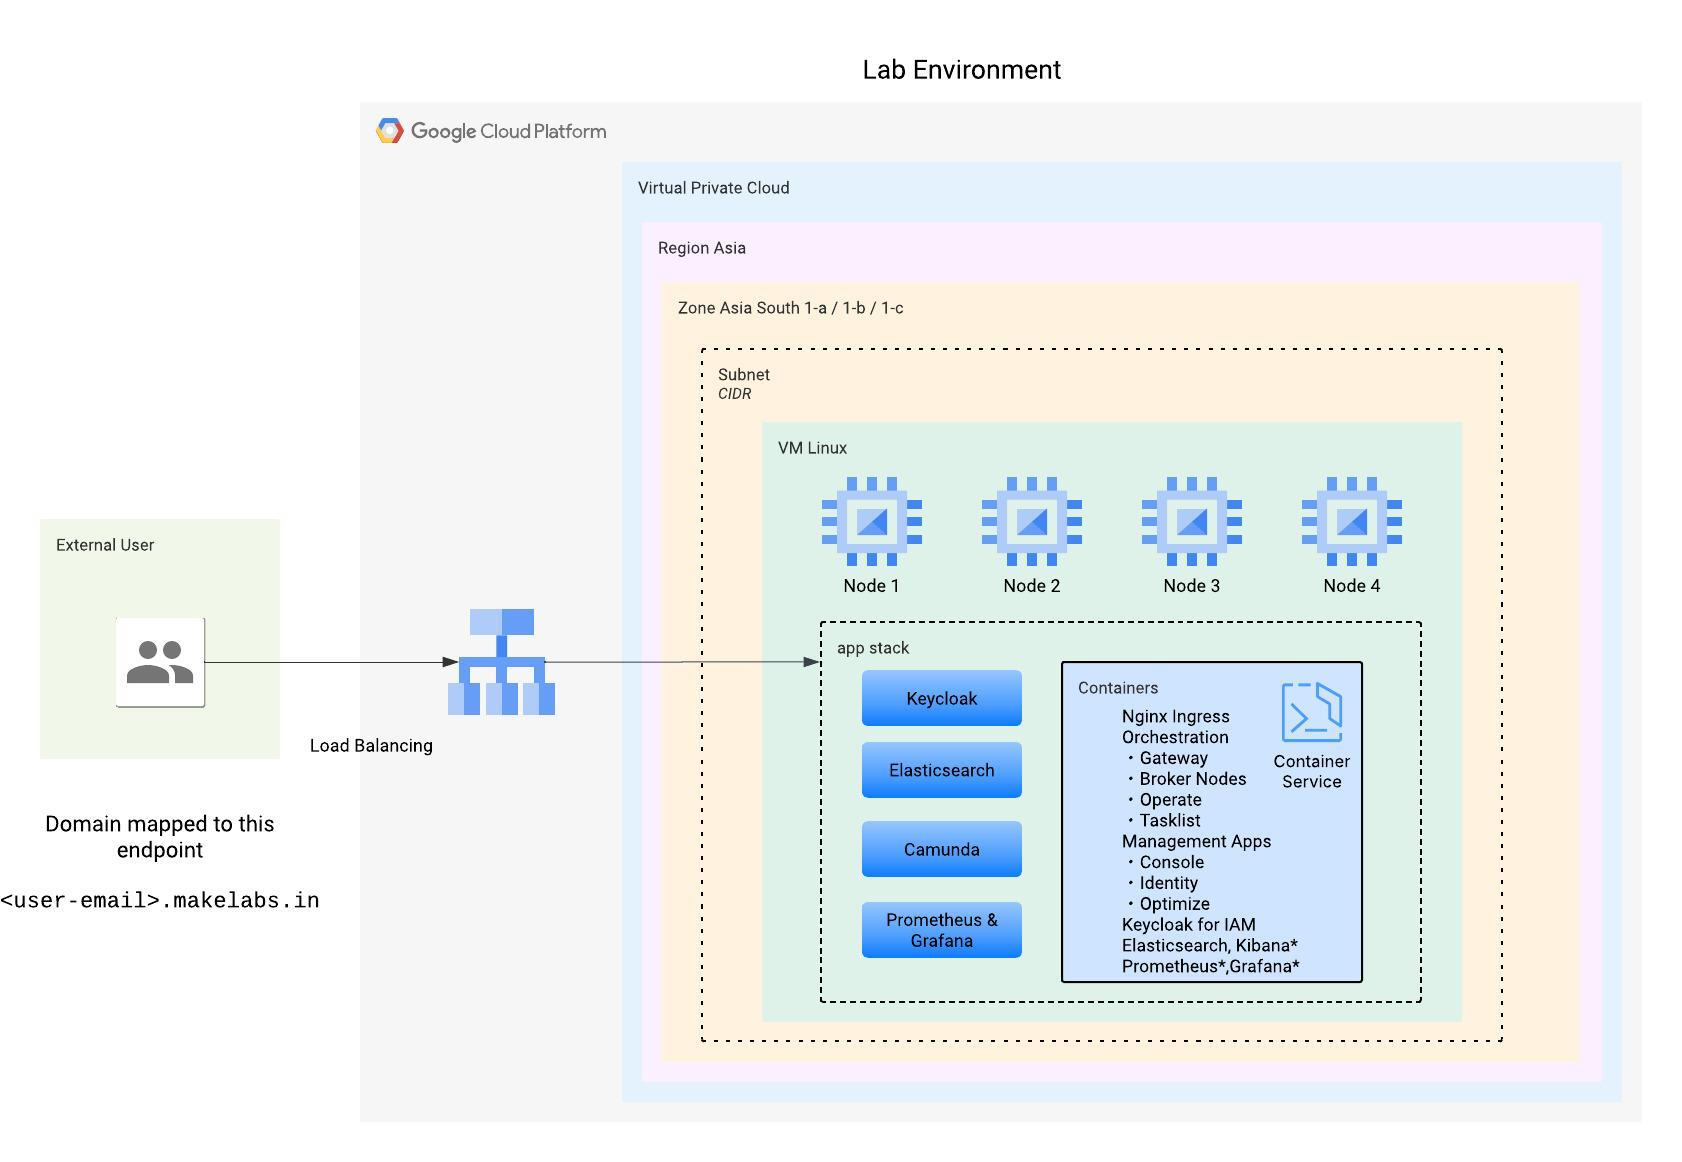
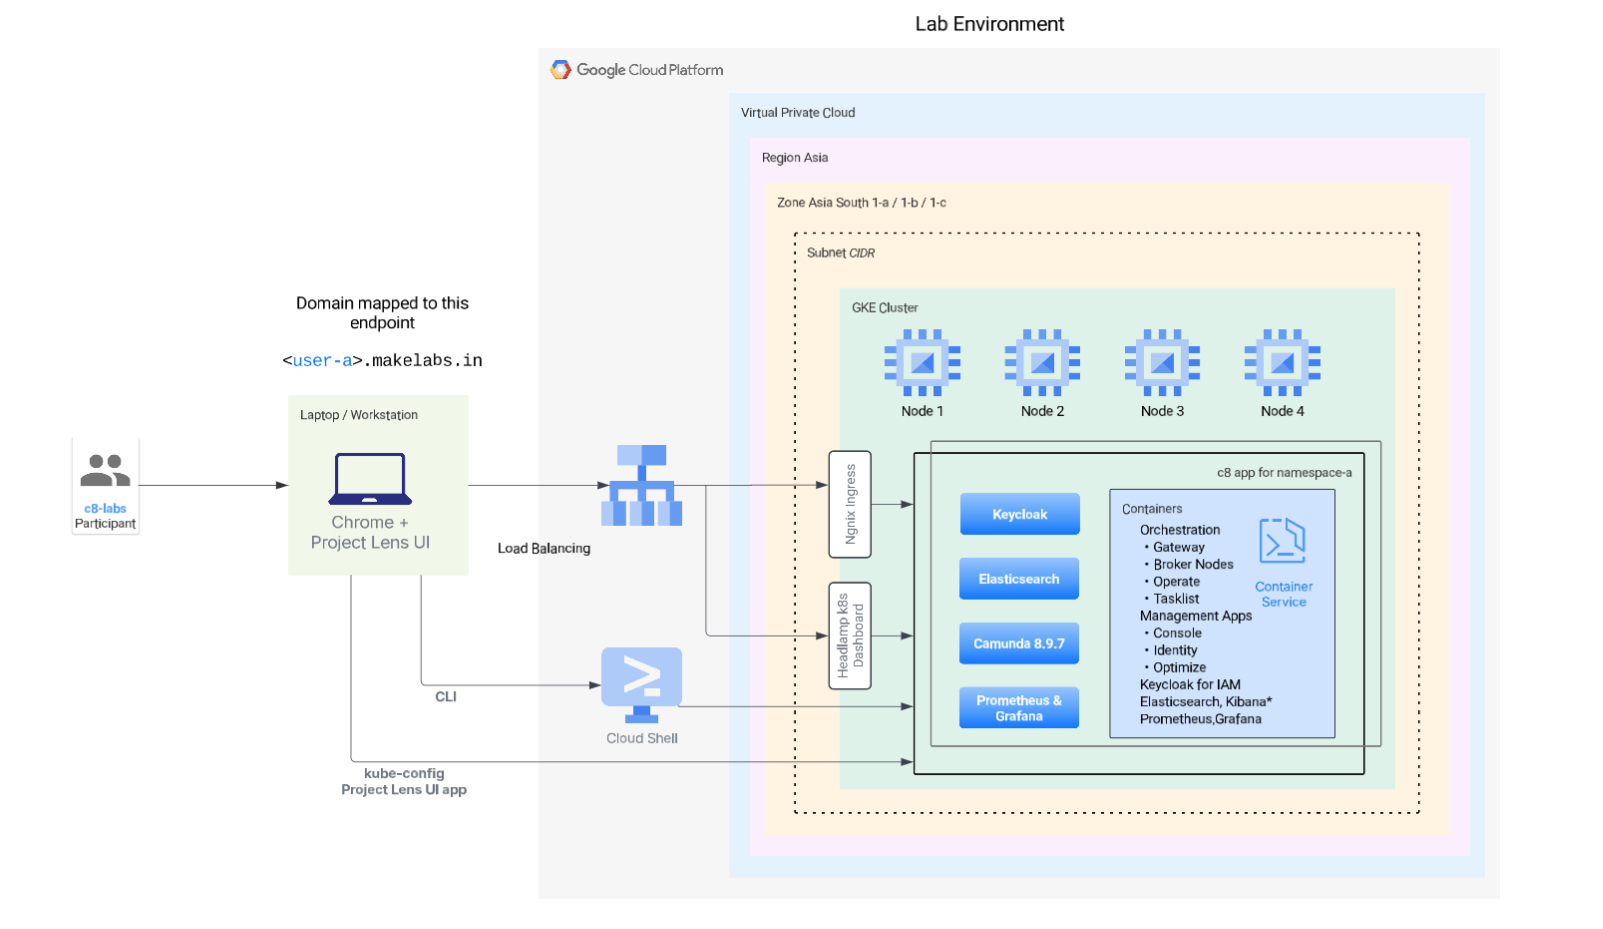
lab env diagram updated. minor edits to page 0 access plans

diff --git a/src/pages/Part0.html b/src/pages/Part0.html
@@ -9,7 +9,7 @@
     <main id="page-start">
 
         <section id="welcome">
-            <small>An initiative of Community Chapter Bengaluru</small>
+            <small>An initiative of the Community Chapter Bengaluru</small>
             <h2>
                 Welcome !
             </h2>
@@ -130,13 +130,12 @@ Whether you're new to Camunda 8 or preparing for real-world deployments, C8-Labs
                     </tr>
                     <tr>
                         <td style="color: gray;text-align: end;">Experience Level</td>
-                        <td style="text-align: left;">Beginner to Intermediate</td>
+                        <td style="text-align: left;">Skilled in Camunda. Basic DevOps knowledge.</td>
                     </tr>
                     <tr>
                         <td style="color: gray;text-align: end;">Estimated Duration</td>
                         <td style="text-align: left;">
-                            4-6 hours (Free Tier)<br/>
-                            48 hours (Premium Tier)
+                            Refer to section <code>Access Plans</code> for details.
                         </td>
                     </tr>
                     <tr>
@@ -241,20 +240,24 @@ Whether you're new to Camunda 8 or preparing for real-world deployments, C8-Labs
                             <br/>
                             <small>
                                 A simple registration process.
-                                Use Sign-in button to begin.
+                                Use Sign In button to begin.
                             </small>
                         </td>
                         <td>
-                            Request for access granted instantly (in ~60 minutes) on best effort basis.
-                            Click on <code>Sign-In</code> to begin and submit request for access.
+                            Request for access granted instantly.
+                            <br/>
+                            Click on <code>Sign In</code> to begin and submit request for access.
                             <br/><br/>
                         </td>
                         <td>
-                            Onboarding by our backend team. You get instant access upon completion.
+                            Onboarding by our backend team.
+                            <br/>
+                            You get instant access upon completion.
+                            <br/>
                             Visit <a href="#get-started">Get Started</a> section for details.
                             <br/><br/>
                             <small>
-                                ETA for registration completion: 4-to-48 hours.
+                                ETA for registration completion: 4-to-24 hours.
                             </small>
                         </td>
                     </tr>
@@ -264,8 +267,8 @@ Whether you're new to Camunda 8 or preparing for real-world deployments, C8-Labs
                             <br>
                             <small>Time starts when user completes Onboarding instructions. See navigation link.<br/>Continuous hours, can't be divided into multiple time-windows.</small>
                         </td>
-                        <td><b>6 hours</b></td>
-                        <td><b>48 hours</b></td>
+                        <td><b>6 Hours</b></td>
+                        <td><b>48 Hours</b></td>
                     </tr>
                     <tr>
                         <td class="access-plan-label">
@@ -277,10 +280,10 @@ Whether you're new to Camunda 8 or preparing for real-world deployments, C8-Labs
                             Use the <b style="color: #e8491d;">Sign In</b> button and select <b>Email/OTP</b> method
                             <br/><br/>
                             <small>
-                                Request for Access is generally grated in one hour (max: 24 hours).
+                                Request for Access is generally granted instantly.
                                 <br/>
-                                Note: After you Sign-In, the session is valid for 6 hours. 
-                                Please do not Sign-Out during the lab access window.
+                                Note: After you Sign In, the session is valid for the period mentioned in <b>Lab Access Duration</b>. 
+                                Please do not Sign Out during the lab access window.
                             </small>
                         </td>
                         <td>
@@ -289,7 +292,7 @@ Whether you're new to Camunda 8 or preparing for real-world deployments, C8-Labs
                             <small>
                                 Onboarding by our backend team. You get instant access upon successful onboarding.
                                 <br/>
-                                Note: After you sign-in, the session is valid for 48 hours. If you sign-out, you can sign-in again within the 48 hours window and continue from where you left off.<br/>
+                                Note: After you Sign In, the session is valid for the period mentioned in <b>Lab Access Duration</b>. If you Sign Out, you may Sign In again within the <i>access window</i> and continue from where you left off.<br/>
                             </small>
                         </td>
                     </tr>
@@ -309,7 +312,7 @@ Whether you're new to Camunda 8 or preparing for real-world deployments, C8-Labs
                             <small>
                                 Emails sent by the system during the access window.<br/>
                                 Onboarding emails: One email per onboarding session.<br/>
-                                Lab Usage Report: Sent every hour during the lab access window.<br/>
+                                Lab Usage Report: Sent once every two hours during the lab access window.<br/>
                             </small>
 
                         </td>
@@ -318,7 +321,7 @@ Whether you're new to Camunda 8 or preparing for real-world deployments, C8-Labs
                             <small>
                                 Emails sent by the system during the access window.<br/>
                                 Onboarding emails: One email per onboarding session.<br/>
-                                Lab Usage Report: Sent every six hours (i.e., 4 times per day).<br/>
+                                Lab Usage Report: Sent every six hours (i.e., 4 times per calendar day).<br/>
                             </small>
                         </td>
                     </tr>
@@ -388,8 +391,8 @@ Whether you're new to Camunda 8 or preparing for real-world deployments, C8-Labs
                             <br/><br/>
                             <small>
                                 Participant to install Project Lens UI app on their local machine (Refer to Prerequisites section in Navigation panel). 
-                                Using Project Lens, you can see and make changes to the kubernetes objects in your assigned namespace.
-                                Recommended for learning insights and gaining a deeper understandng of the physical structure.
+                                Using Project Lens, you can <code>edit</code> (i.e., see and make changes to the) kubernetes objects in your assigned namespace.
+                                Recommended for gaining a deeper understandng of the physical architecture and infrastructure setup.
                             </small>
                         </td>
                     </tr>

diff --git a/src/index.html b/src/index.html
@@ -47,7 +47,7 @@
                     &nbsp;&nbsp;
                     <a class="quick-link-pill-top-cta-secondary" onclick="loadCoursePart(0,'lab-gallery')">Lab Gallery</a>
                     &nbsp;&nbsp;
-                    <a class="quick-link-pill-top-cta-secondary" onclick="loadCoursePart(0,'access-plans')">6-Hour Free Access</a>
+                    <a class="quick-link-pill-top-cta-secondary" onclick="loadCoursePart(0,'access-plans')">6-Hours Free Access</a>
                     &nbsp;&nbsp;
                     <a class="quick-link-pill-top-cta-primary"   onclick="loadCoursePart(0,'get-started')">Join Next Cohort</a>
                 </h4>